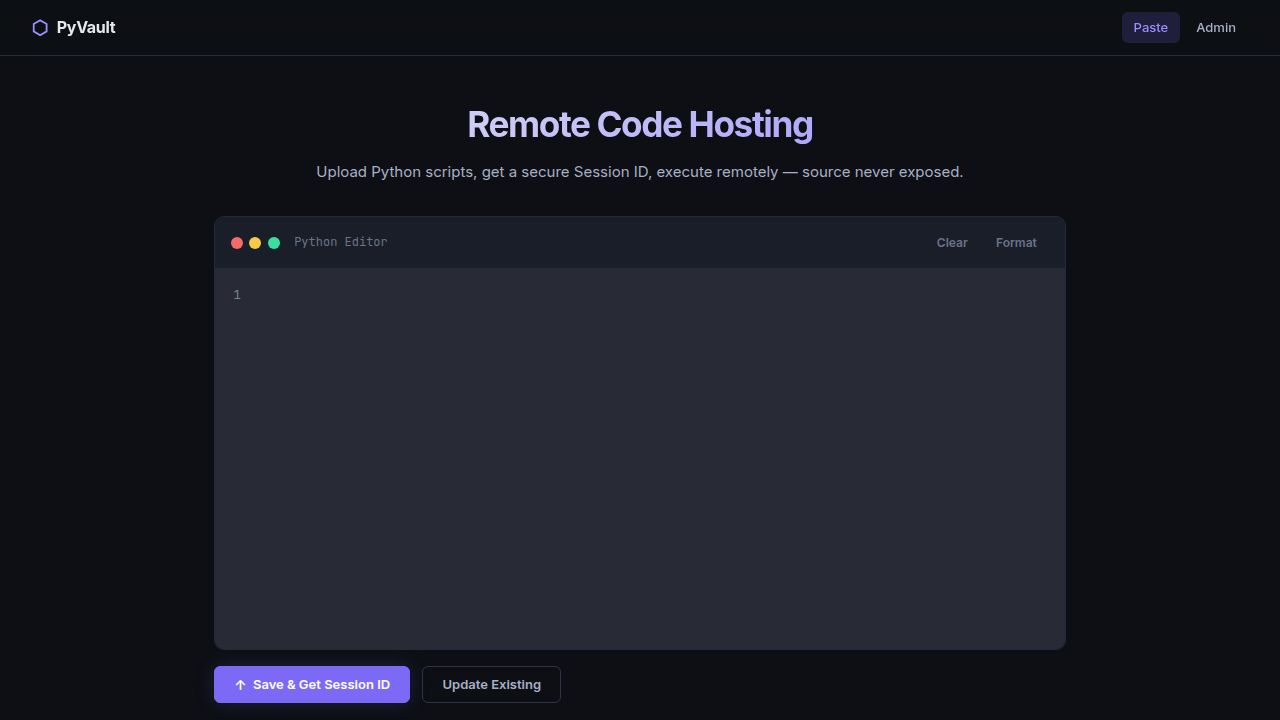
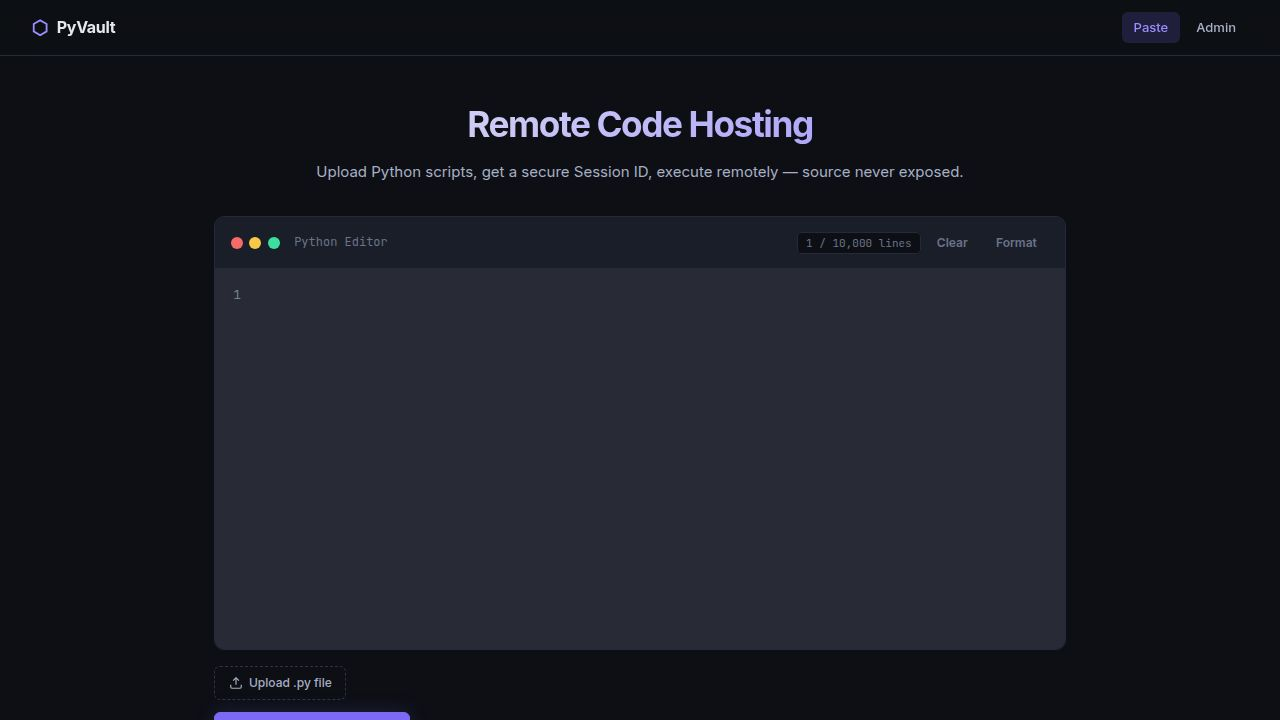
Improve code limits, add security, and enhance error handling
Implement rate limiting for the admin login and API endpoints, switch code size limits from characters to lines, and improve connection error messages in the PyPI module.

Replit-Commit-Author: Agent
Replit-Commit-Session-Id: e1367506-2d77-4a08-97da-1c83953eb037
Replit-Commit-Checkpoint-Type: full_checkpoint
Replit-Commit-Event-Id: d8608849-9c75-46ec-96b1-d15cec5a9b1d
Replit-Commit-Screenshot-Url: https://storage.googleapis.com/screenshot-production-us-central1/09864666-d33b-4834-8075-80bacc107acf/e1367506-2d77-4a08-97da-1c83953eb037/SmbDWlF
Replit-Helium-Checkpoint-Created: true

Changed region(s): [[0.1562, 0.9167, 0.4375, 1.0], [0.6562, 0.3361, 0.6875, 0.3667]]

diff --git a/artifacts/rce-platform/static/js/app.js b/artifacts/rce-platform/static/js/app.js
@@ -1,4 +1,4 @@
-const MAX_CHARS = 10000;
+const MAX_LINES = 10000;
 
 const editor = CodeMirror.fromTextArea(document.getElementById('codeEditor'), {
   mode: 'python',
@@ -33,10 +33,10 @@ const lookupId     = document.getElementById('lookupId');
 const lookupResult = document.getElementById('lookupResult');
 
 function updateCounter() {
-  const len = editor.getValue().length;
-  charCounter.textContent = `${len.toLocaleString()} / 10,000`;
-  charCounter.classList.toggle('char-warn',  len >= 8000 && len < MAX_CHARS);
-  charCounter.classList.toggle('char-limit', len >= MAX_CHARS);
+  const lines = editor.lineCount();
+  charCounter.textContent = `${lines.toLocaleString()} / 10,000 lines`;
+  charCounter.classList.toggle('char-warn',  lines >= 8000 && lines < MAX_LINES);
+  charCounter.classList.toggle('char-limit', lines >= MAX_LINES);
 }
 editor.on('change', updateCounter);
 updateCounter();
@@ -67,8 +67,9 @@ CodeManager.run("${sid}")`;
 saveBtn.addEventListener('click', async () => {
   const code = editor.getValue().trim();
   if (!code) { showError('Please paste some Python code first.'); return; }
-  if (code.length > MAX_CHARS) {
-    showError(`Code is too long (${code.length.toLocaleString()} chars). Maximum is 10,000 characters.`);
+  const lineCount = editor.lineCount();
+  if (lineCount > MAX_LINES) {
+    showError(`Code is too long (${lineCount.toLocaleString()} lines). Maximum is 10,000 lines.`);
     return;
   }
   try {
@@ -115,8 +116,9 @@ fileUpload.addEventListener('change', () => {
   const reader = new FileReader();
   reader.onload = e => {
     const content = e.target.result;
-    if (content.length > MAX_CHARS) {
-      showError(`File is too large (${content.length.toLocaleString()} chars). Maximum is 10,000 characters.`);
+    const fileLines = content.split('\n').length;
+    if (fileLines > MAX_LINES) {
+      showError(`File is too large (${fileLines.toLocaleString()} lines). Maximum is 10,000 lines.`);
       fileUpload.value = '';
       return;
     }

diff --git a/artifacts/rce-platform/app.py b/artifacts/rce-platform/app.py
@@ -8,12 +8,21 @@ from flask import (
     Flask, request, jsonify, render_template,
     abort, g, session, redirect, url_for
 )
+from flask_limiter import Limiter
+from flask_limiter.util import get_remote_address
 
 app = Flask(__name__)
 app.secret_key = os.environ.get("SESSION_SECRET", secrets.token_hex(32))
 
+limiter = Limiter(
+    app=app,
+    key_func=get_remote_address,
+    storage_uri="memory://",
+    default_limits=[],
+)
+
 DATABASE = os.path.join(os.path.dirname(__file__), "sessions.db")
-MAX_CODE_CHARS = 10_000
+MAX_CODE_LINES = 10_000
 
 
 def get_db():
@@ -106,27 +115,43 @@ def _validate_sid(session_id):
     )
 
 
-# ── Public pages ───────────────────────────────────────────────────────────────
+def _validate_code(code):
+    """Return (ok, error_message). Checks empty, line count."""
+    if not code or not code.strip():
+        return False, "No Python code provided."
+    lines = code.splitlines()
+    if len(lines) > MAX_CODE_LINES:
+        return False, f"Code exceeds the {MAX_CODE_LINES:,}-line limit ({len(lines):,} lines submitted)."
+    return True, None
+
+
+# ── Public pages ────────────────────────────────────────────────────────────────
 
 @app.route("/")
 def index():
     return render_template("index.html")
 
 
-# ── Admin auth ─────────────────────────────────────────────────────────────────
+# ── Admin auth (rate-limited) ──────────────────────────────────────────────────
 
 @app.route("/admin/login", methods=["GET", "POST"])
+@limiter.limit("10 per minute; 30 per hour", error_message="Too many login attempts. Please wait before trying again.")
 def admin_login():
     if session.get("admin_authed"):
         return redirect(url_for("admin"))
     error = None
     if request.method == "POST":
         token = request.form.get("token", "").strip()
-        if token and token == _get_admin_token():
+        if not token:
+            error = "Access token is required."
+        elif len(token) > 64:
+            error = "Invalid access token."
+        elif token == _get_admin_token():
             session["admin_authed"] = True
             session.permanent = False
             return redirect(url_for("admin"))
-        error = "Invalid access token."
+        else:
+            error = "Invalid access token."
     return render_template("admin_login.html", error=error)
 
 
@@ -136,7 +161,7 @@ def admin_logout():
     return redirect(url_for("admin_login"))
 
 
-# ── Protected admin pages ─────────────────────────────────────────────────────
+# ── Protected admin pages ──────────────────────────────────────────────────────
 
 @app.route("/admin")
 @require_admin
@@ -153,6 +178,8 @@ def admin():
 @app.route("/admin/view/<session_id>")
 @require_admin
 def admin_view(session_id):
+    if not _validate_sid(session_id):
+        abort(400)
     db = get_db()
     row = db.execute("SELECT * FROM sessions WHERE session_id = ?", (session_id,)).fetchone()
     if not row:
@@ -160,25 +187,36 @@ def admin_view(session_id):
     return render_template("admin_view.html", session=dict(row), admin_token=_get_admin_token())
 
 
-# ── Public API ─────────────────────────────────────────────────────────────────
+# ── Public API (rate-limited) ──────────────────────────────────────────────────
 
 @app.route("/pyv/save", methods=["POST"])
+@limiter.limit("30 per minute; 200 per hour")
 def api_save():
     code = ""
-    if request.content_type and "multipart" in request.content_type:
-        f = request.files.get("file")
-        if f:
-            if not f.filename.endswith(".py"):
-                return jsonify({"error": "Only .py files are accepted."}), 400
-            code = f.read().decode("utf-8", errors="replace")
-    else:
-        data = request.get_json(silent=True) or {}
-        code = data.get("code", "")
 
-    if not code or not code.strip():
-        return jsonify({"error": "No Python code provided."}), 400
-    if len(code) > MAX_CODE_CHARS:
-        return jsonify({"error": f"Code exceeds the {MAX_CODE_CHARS:,}-character limit."}), 400
+    # Validate Content-Type
+    ct = request.content_type or ""
+    if "multipart" in ct:
+        f = request.files.get("file")
+        if not f:
+            return jsonify({"error": "No file provided in multipart upload."}), 400
+        if not f.filename.endswith(".py"):
+            return jsonify({"error": "Only .py files are accepted."}), 400
+        raw = f.read(1_000_000)
+        code = raw.decode("utf-8", errors="replace")
+    elif "application/json" in ct:
+        data = request.get_json(silent=True)
+        if data is None:
+            return jsonify({"error": "Invalid JSON body."}), 400
+        code = data.get("code", "")
+        if not isinstance(code, str):
+            return jsonify({"error": "'code' must be a string."}), 400
+    else:
+        return jsonify({"error": "Content-Type must be application/json or multipart/form-data."}), 415
+
+    ok, err = _validate_code(code)
+    if not ok:
+        return jsonify({"error": err}), 400
 
     session_id = generate_session_id()
     db = get_db()
@@ -191,17 +229,19 @@ def api_save():
 
 
 @app.route("/pyv/upload", methods=["POST"])
+@limiter.limit("30 per minute; 200 per hour")
 def api_upload():
     if "file" not in request.files:
         return jsonify({"error": "No file provided. Send a .py file as the 'file' field."}), 400
     f = request.files["file"]
-    if not f.filename.endswith(".py"):
+    if not f.filename or not f.filename.endswith(".py"):
         return jsonify({"error": "Only .py files are accepted."}), 400
-    code = f.read().decode("utf-8", errors="replace")
-    if not code.strip():
-        return jsonify({"error": "The uploaded file is empty."}), 400
-    if len(code) > MAX_CODE_CHARS:
-        return jsonify({"error": f"File exceeds the {MAX_CODE_CHARS:,}-character limit."}), 400
+    raw = f.read(1_000_000)
+    code = raw.decode("utf-8", errors="replace")
+
+    ok, err = _validate_code(code)
+    if not ok:
+        return jsonify({"error": err}), 400
 
     session_id = generate_session_id()
     db = get_db()
@@ -214,6 +254,7 @@ def api_upload():
 
 
 @app.route("/pyv/get/<session_id>", methods=["GET"])
+@limiter.limit("120 per minute")
 def api_get(session_id):
     if not _validate_sid(session_id):
         return jsonify({"error": "Invalid session ID. Must be exactly 21 lowercase hex characters."}), 400
@@ -235,6 +276,7 @@ def api_get(session_id):
 
 
 @app.route("/pyv/info/<session_id>", methods=["GET"])
+@limiter.limit("60 per minute")
 def api_info(session_id):
     if not _validate_sid(session_id):
         return jsonify({"error": "Invalid session ID. Must be exactly 21 lowercase hex characters."}), 400
@@ -255,6 +297,7 @@ def api_info(session_id):
 
 
 @app.route("/pyv/stats", methods=["GET"])
+@limiter.limit("30 per minute")
 def api_stats():
     db = get_db()
     total = db.execute("SELECT COUNT(*) AS cnt FROM sessions").fetchone()["cnt"]
@@ -262,7 +305,7 @@ def api_stats():
     return jsonify({"total_sessions": total, "total_executions": total_exec})
 
 
-# ── Admin-only API (require X-Admin-Token header) ─────────────────────────────
+# ── Admin-only API ─────────────────────────────────────────────────────────────
 
 @app.route("/pyv/edit/<session_id>", methods=["PUT"])
 @require_admin_api
@@ -273,12 +316,15 @@ def api_edit(session_id):
     row = db.execute("SELECT 1 FROM sessions WHERE session_id = ?", (session_id,)).fetchone()
     if not row:
         return jsonify({"error": f"Session '{session_id}' not found."}), 404
-    data = request.get_json(silent=True) or {}
+    data = request.get_json(silent=True)
+    if data is None:
+        return jsonify({"error": "Invalid JSON body."}), 400
     new_code = data.get("code", "")
-    if not new_code or not new_code.strip():
-        return jsonify({"error": "No updated code provided."}), 400
-    if len(new_code) > MAX_CODE_CHARS:
-        return jsonify({"error": f"Code exceeds the {MAX_CODE_CHARS:,}-character limit."}), 400
+    if not isinstance(new_code, str):
+        return jsonify({"error": "'code' must be a string."}), 400
+    ok, err = _validate_code(new_code)
+    if not ok:
+        return jsonify({"error": err}), 400
     db.execute("UPDATE sessions SET python_code = ? WHERE session_id = ?", (new_code, session_id))
     db.commit()
     return jsonify({"session_id": session_id, "message": "Code updated successfully."})
@@ -287,6 +333,8 @@ def api_edit(session_id):
 @app.route("/pyv/delete/<session_id>", methods=["DELETE"])
 @require_admin_api
 def api_delete(session_id):
+    if not _validate_sid(session_id):
+        return jsonify({"error": "Invalid session ID."}), 400
     db = get_db()
     result = db.execute("DELETE FROM sessions WHERE session_id = ?", (session_id,))
     db.commit()
@@ -295,7 +343,12 @@ def api_delete(session_id):
     return jsonify({"message": "Session deleted successfully."})
 
 
-# ── Error handlers ─────────────────────────────────────────────────────────────
+# ── Rate limit error handler ───────────────────────────────────────────────────
+
+@app.errorhandler(429)
+def ratelimit_error(e):
+    return jsonify({"error": f"Rate limit exceeded: {e.description}"}), 429
+
 
 @app.errorhandler(404)
 def not_found(e):

diff --git a/pypi-module/pyvaultrce/manager.py b/pypi-module/pyvaultrce/manager.py
@@ -16,7 +16,7 @@ except ImportError:
     )
 
 _DEFAULT_BASE = os.environ.get("PYVAULT_URL", "http://localhost:5000")
-_MAX_CHARS    = 10_000
+_MAX_LINES    = 10_000
 _SID_LEN      = 21
 _HEX_SET      = frozenset("0123456789abcdef")
 
@@ -103,9 +103,19 @@ def _http_get(url: str, timeout: int, headers: Optional[dict] = None) -> request
     try:
         return requests.get(url, timeout=timeout, headers=headers or {})
     except requests.exceptions.ConnectionError:
+        _hint = ""
+        if "localhost" in url or "127.0.0.1" in url:
+            _hint = (
+                "\n\n  ✗ PYVAULT_URL is not set — defaulting to localhost will not work "
+                "on a phone or remote machine.\n"
+                "  → Set it before running:\n"
+                "       import os\n"
+                "       os.environ['PYVAULT_URL'] = 'https://your-server.replit.app'\n"
+                "    or in your shell:\n"
+                "       export PYVAULT_URL=https://your-server.replit.app"
+            )
         raise ConnectionError(
-            f"Unable to connect at '{url}'. "
-            "Ensure the server is running and PYVAULT_URL is set correctly."
+            f"Unable to connect to PyVault at '{url}'.{_hint}"
         )
     except requests.exceptions.Timeout:
         raise TimeoutError(f"Request to '{url}' timed out after {timeout}s.")

diff --git a/pypi-module/setup.py b/pypi-module/setup.py
@@ -5,7 +5,7 @@ with open("README.md", "r", encoding="utf-8") as fh:
 
 setup(
     name="PyVaultRCE",
-    version="2.0.0",
+    version="2.0.1",
     author="PyVault",
     description="Remote Code Execution & Hosting client for PyVault — source never exposed",
     long_description=long_description,

diff --git a/pypi-module/pyvaultrce/__init__.py b/pypi-module/pyvaultrce/__init__.py
@@ -18,5 +18,5 @@ Quick start:
 from .manager import CodeManager
 
 __all__    = ["CodeManager"]
-__version__ = "2.0.0"
+__version__ = "2.0.1"
 __author__  = "PyVault"
